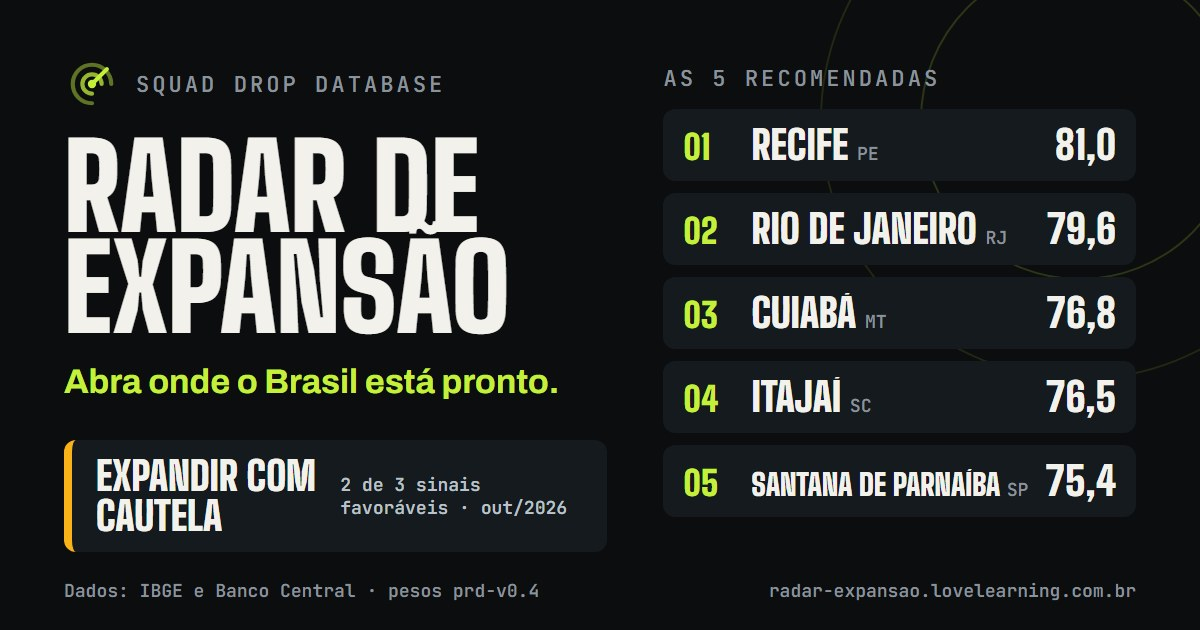
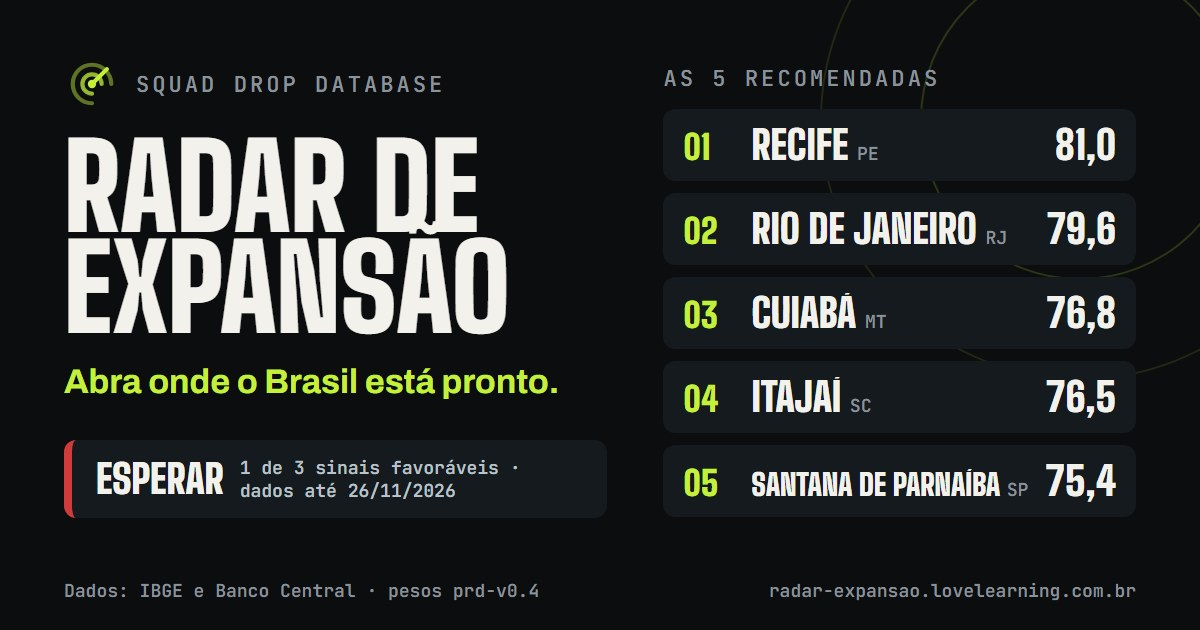
feat(site): semáforo de hoje com a data de cada sinal
Lê momento_atual: "Esperar", dólar pela média de 30 dias até 26/11 com o
último fechamento e o alerta de alta, Selic em 26/11 e IPCA até out/26.
Sparkline do câmbio e da Selic até novembro (parcial), rótulos do dólar,
letreiro e destaque do topo com as datas; prévia do link refeita. Datas
sem hora não passam mais por fuso; plural de "desfavoráveis" corrigido.

Changed region(s): [[0.0308, 0.6937, 0.4317, 0.8746], [0.4008, 0.7841, 0.4933, 0.8143]]

diff --git a/site/js/macro.js b/site/js/macro.js
@@ -1,9 +1,11 @@
-// Quando: recomendação do mês, os três sinais como cards de dado, a recomendação mês a mês e as três séries.
+// Quando: o semáforo de hoje (gold.momento_atual: câmbio e juros pela janela móvel até o último fechamento,
+// inflação pelo último IPCA), os três sinais como cards de dado com a data de cada um,
+// a recomendação mês a mês e as três séries.
 // Cada série tem o próprio gráfico (escalas diferentes não dividem eixo); a mira é sincronizada
 // e o tooltip é o componente único do site (dica.js).
 
 import { ROTULO_SINAL, STATUS_RECOMENDACAO } from "./indicadores.js";
-import { decimal, mesCurto, mesPorExtenso, paraData, porcento, reaisCentavos } from "./formato.js";
+import { dataCurta, decimal, mesCurto, mesPorExtenso, paraData, porcento, reaisCentavos } from "./formato.js";
 import { movimentoLigado } from "./movimento.js";
 import { conteudoDica, esconderDica, mostrarDica } from "./dica.js";
 
@@ -17,25 +19,46 @@ function variacao(v, formatar) {
   return `${seta} ${formatar(Math.abs(v))}`;
 }
 
-/** Os três sinais do semáforo e como mostrar cada um (valor, variação, série). */
+/** "2026-11-26" -> "26/11". */
+const diaMesIso = (iso) => (iso ? `${iso.slice(8, 10)}/${iso.slice(5, 7)}` : "—");
+
+/** Os três sinais do semáforo e como mostrar cada um: no mês (contexto_macro) e hoje (momento_atual). */
 const SINAIS = [
   {
     chave: "sinal_juros", nome: "Juros", indicador: "Meta da Selic", coluna: "selic_meta",
     valor: (l) => `${decimal(l.selic_meta, 2)}% a.a.`,
     variacao: (l) => variacao(l.selic_var_12m_pp, (v) => `${decimal(v, 2)} p.p.`),
     periodo: "em 12 meses",
+    hoje: {
+      indicador: (a) => `Meta da Selic · em ${diaMesIso(a.ref_juros)}`,
+      valor: (a) => `${decimal(a.selic_meta, 2)}% a.a.`,
+      variacao: (a) => variacao(a.selic_var_12m_pp, (v) => `${decimal(v, 2)} p.p.`),
+    },
   },
   {
     chave: "sinal_inflacao", nome: "Inflação", indicador: "IPCA acumulado em 12 meses", coluna: "ipca_12m",
     valor: (l) => porcento(l.ipca_12m, 2),
     variacao: (l, antes) => variacao(antes ? l.ipca_12m - antes.ipca_12m : null, (v) => `${decimal(v, 2)} p.p.`),
     periodo: "vs. 3 meses antes", referencia: 4.5,
+    hoje: {
+      indicador: (a) => `IPCA em 12 meses · até ${mesCurto(paraData(a.ref_inflacao))}`,
+      valor: (a) => porcento(a.ipca_12m, 2),
+      variacao: (a) => variacao(a.ipca_12m - a.ipca_12m_meses_antes, (v) => `${decimal(v, 2)} p.p.`),
+    },
   },
   {
     chave: "sinal_cambio", nome: "Câmbio", indicador: "Dólar, média do mês", coluna: "dolar_medio",
     valor: (l) => reaisCentavos(l.dolar_medio, 2),
     variacao: (l) => variacao(l.dolar_var_12m_pct, (v) => `${decimal(v, 1)}%`),
     periodo: "em 12 meses",
+    hoje: {
+      indicador: (a) => `Dólar, média de ${a.janela_dias} dias · até ${diaMesIso(a.ref_cambio)}`,
+      valor: (a) => reaisCentavos(a.dolar_media_janela, 2),
+      variacao: (a) => variacao(a.dolar_var_12m_pct, (v) => `${decimal(v, 1)}%`),
+      extra: (a) => `último fechamento ${diaMesIso(a.ref_cambio)}: ${reaisCentavos(a.dolar_ultimo, 2)} · ` +
+        `${variacao(a.dolar_var_janela_pct, (v) => `${decimal(v, 1)}%`)} sobre os ${a.janela_dias} dias anteriores` +
+        (a.alerta_cambio_curto_prazo ? " (alerta de alta)" : ""),
+    },
   },
 ];
 
@@ -45,21 +68,24 @@ export function criarMacro({ estado }) {
   const macro = estado.macro.map((l) => ({ ...l, data: paraData(l.mes) }));
   const indiceMacro = new Map(macro.map((l, i) => [l.mes, i]));
   const momentoPorMes = new Map(momento.map((l) => [l.mes, l]));
-  const atual = momento.at(-1);
+  const agora = estado.agora ? { ...estado.agora, data: paraData(estado.agora.mes) } : null;
+  const atual = agora ?? momento.at(-1);                          // o semáforo exibido
   const linhaAtual = atual ? macro[indiceMacro.get(atual.mes)] : null;
   const tresAntes = (l) => macro[(indiceMacro.get(l.mes) ?? 0) - 3] ?? null;
 
-  // mês corrente (parcial): a média é só até o último dia com dado; o semáforo usa o último mês fechado
-  const fechamentos = estado.meta.ultimos_fechamentos ?? {};
-  const diaMes = (iso) => `${iso.slice(8, 10)}/${iso.slice(5, 7)}`;
-  const ultimoDia = fechamentos.dolar_venda?.data ?? fechamentos.selic_meta?.data ?? null;
+  // mês corrente (parcial): médias só até o último fechamento; o semáforo de hoje usa a janela móvel
+  const parcial = macro.find((l) => l.mes_parcial) ?? null;
+  const ultimoDia = agora?.ref_cambio ?? parcial?.dolar_ultimo_data ?? null;
   const textoFechamento = {
-    selic_meta: fechamentos.selic_meta ? `último valor ${diaMes(fechamentos.selic_meta.data)}: ${decimal(fechamentos.selic_meta.valor, 2)}% a.a.` : "",
-    dolar_medio: fechamentos.dolar_venda ? `último fechamento ${diaMes(fechamentos.dolar_venda.data)}: ${reaisCentavos(fechamentos.dolar_venda.valor, 2)}` : "",
+    selic_meta: parcial?.selic_ultima_data ? `meta em ${diaMesIso(parcial.selic_ultima_data)}: ${decimal(parcial.selic_meta, 2)}% a.a.` : "",
+    dolar_medio: parcial?.dolar_ultimo ? `último fechamento ${diaMesIso(parcial.dolar_ultimo_data)}: ${reaisCentavos(parcial.dolar_ultimo, 2)}` : "",
   };
-  const mesAno = (d) => `${mesCurto(d).slice(0, 3)}/${d.getFullYear()}`;          // "out/2026"
-  const referenciaSemaforo = atual ? `semáforo: referência ${mesAno(atual.data)}` : "";
-  const rotuloParcial = (l) => `${mesPorExtenso(l.data)} (parcial${ultimoDia ? `, até ${diaMes(ultimoDia)}` : ""})`;
+  const mesAno = (d) => `${mesCurto(d).slice(0, 3)}/${d.getFullYear()}`;          // "nov/2026"
+  const janelaHoje = agora ? `semáforo: média de ${agora.janela_dias} dias até ${diaMesIso(agora.ref_cambio)}: ${reaisCentavos(agora.dolar_media_janela, 2)}` : "";
+  const rotuloParcial = (l) => `${mesPorExtenso(l.data)} (parcial${ultimoDia ? `, até ${diaMesIso(ultimoDia)}` : ""})`;
+  const datasHoje = agora
+    ? `dólar e Selic até ${diaMesIso(agora.ref_cambio)}, IPCA até ${mesCurto(paraData(agora.ref_inflacao))}`
+    : atual ? `referência ${mesCurto(atual.data)}` : "";
 
   /** Linhas do tooltip de um mês: Juros · Inflação · Câmbio → valor, variação, estado. */
   function conteudoDoMes(linha) {
@@ -71,15 +97,15 @@ export function criarMacro({ estado }) {
         estado: est, estadoTexto: est ? ROTULO_SINAL[est] : "",
       };
     });
-    const parcial = linha.mes_parcial
-      ? `Média do mês até ${ultimoDia ? diaMes(ultimoDia) : "hoje"}. ${[textoFechamento.dolar_medio, textoFechamento.selic_meta].filter(Boolean).join(" · ")}. ` +
-        `O semáforo usa o último mês fechado (${atual ? mesAno(atual.data) : "—"}).`
+    const nota = linha.mes_parcial
+      ? `Média do mês até ${ultimoDia ? diaMesIso(ultimoDia) : "hoje"}. ${[textoFechamento.dolar_medio, textoFechamento.selic_meta].filter(Boolean).join(" · ")}. ` +
+        (agora ? `Semáforo de hoje: câmbio pela média de ${agora.janela_dias} dias até ${diaMesIso(agora.ref_cambio)}, juros pela meta de ${diaMesIso(agora.ref_juros)} e inflação pelo IPCA de ${mesCurto(paraData(agora.ref_inflacao))}.` : "")
       : "Variação: juros e câmbio em 12 meses; inflação contra 3 meses antes.";
     return conteudoDica({
       titulo: linha.mes_parcial ? rotuloParcial(linha) : mesPorExtenso(linha.data),
       chip: m ? { texto: m.recomendacao, estado: STATUS_RECOMENDACAO[m.recomendacao] } : null,
       linhas,
-      nota: parcial,
+      nota,
     });
   }
 
@@ -89,11 +115,11 @@ export function criarMacro({ estado }) {
     const estados = SINAIS.map((s) => atual[s.chave]);
     const conta = (e) => estados.filter((x) => x === e).length;
     const partes = [`${conta("verde")} de ${SINAIS.length} sinais favoráveis`];
-    if (conta("vermelho")) partes.push(`${conta("vermelho")} desfavorável${conta("vermelho") > 1 ? "is" : ""}`);
-    partes.push(`referência ${mesCurto(atual.data)}`);
+    if (conta("vermelho")) partes.push(`${conta("vermelho")} ${conta("vermelho") > 1 ? "desfavoráveis" : "desfavorável"}`);
+    if (datasHoje) partes.push(datasHoje);
 
     document.querySelector(".semaforo__principal").style.setProperty("--status", COR_STATUS[status]);
-    document.getElementById("semaforo-mes").textContent = "Momento econômico";
+    document.getElementById("semaforo-mes").textContent = agora ? `Momento econômico · ${dataCurta(agora.ref_cambio)}` : "Momento econômico";
     document.getElementById("semaforo-recomendacao").textContent = atual.recomendacao;
     document.getElementById("semaforo-contexto").textContent = partes.join(" · ");
 
@@ -101,6 +127,7 @@ export function criarMacro({ estado }) {
     const lista = document.getElementById("semaforo-sinais");
     lista.replaceChildren();
     const fim = indiceMacro.get(atual.mes);
+    const linhaIpca = [...macro].reverse().find((l) => l.ipca_12m !== null);   // o IPCA sai com ~1 mês de atraso
     for (const s of SINAIS) {
       const est = atual[s.chave];
       const li = document.createElement("li");
@@ -113,16 +140,19 @@ export function criarMacro({ estado }) {
         <p class="sinal__variacao"></p>`;
       li.querySelector(".sinal__rotulo").textContent = s.nome;
       li.querySelector(".sinal__estado span").textContent = ROTULO_SINAL[est];
-      li.querySelector(".sinal__indicador").textContent = `${s.indicador} · ${mesCurto(atual.data)}`;
-      li.querySelector(".sinal__valor").textContent = s.valor(linhaAtual);
-      const v = s.variacao(linhaAtual, tresAntes(linhaAtual));
+      // hoje (momento_atual) com a data de cada sinal; sem ele, a linha mensal do mês de referência
+      const base = s.coluna === "ipca_12m" ? linhaIpca : linhaAtual;
+      li.querySelector(".sinal__indicador").textContent = agora ? s.hoje.indicador(agora) : `${s.indicador} · ${mesCurto(atual.data)}`;
+      li.querySelector(".sinal__valor").textContent = agora ? s.hoje.valor(agora) : s.valor(base);
+      const v = agora ? s.hoje.variacao(agora) : s.variacao(base, tresAntes(base));
       li.querySelector(".sinal__variacao").textContent = v ? `${v} ${s.periodo}` : "";
-      if (s.coluna === "dolar_medio" && textoFechamento.dolar_medio) {
+      if (agora && s.hoje.extra) {
         const extra = document.createElement("p");
         extra.className = "sinal__fechamento";
-        extra.textContent = textoFechamento.dolar_medio;
+        extra.textContent = s.hoje.extra(agora);
         li.querySelector(".sinal__variacao").after(extra);
       }
+      // a série mensal vai até o último mês com dado (o câmbio e a Selic incluem o mês corrente, parcial)
       li.append(sparkline(macro.slice(Math.max(0, fim - MESES_SPARKLINE + 1), fim + 1), s));
       lista.append(li);
     }
@@ -146,7 +176,7 @@ export function criarMacro({ estado }) {
     svg.append("circle").attr("class", "sparkline__ponto").attr("r", 3).attr("cx", x(pontos.length - 1)).attr("cy", y(ultimo[s.coluna]));
     const rotulo = document.createElement("p");
     rotulo.className = "sparkline__eixo";
-    rotulo.textContent = `${mesCurto(pontos[0].data)} → ${mesCurto(ultimo.data)}`;
+    rotulo.textContent = `${mesCurto(pontos[0].data)} → ${mesCurto(ultimo.data)}${ultimo.mes_parcial ? " (parcial)" : ""}`;
     const caixa = document.createElement("div");
     caixa.className = "sinal__grafico";
     caixa.append(svg.node(), rotulo);
@@ -223,8 +253,8 @@ export function criarMacro({ estado }) {
     cartao.querySelector(".grafico__atual").textContent = serie.formato(ultimo[serie.coluna]);
     const v = serie.sinal.variacao(ultimo, tresAntes(ultimo));
     cartao.querySelector(".grafico__var").textContent = ultimo.mes_parcial
-      ? [`média de ${mesAno(ultimo.data)} (parcial${ultimoDia ? `, até ${diaMes(ultimoDia)}` : ""})`,
-        textoFechamento[serie.coluna], referenciaSemaforo].filter(Boolean).join(" · ")
+      ? [`${serie.coluna === "dolar_medio" ? "média de " : ""}${mesAno(ultimo.data)} (parcial${ultimoDia ? `, até ${diaMesIso(ultimoDia)}` : ""})`,
+        textoFechamento[serie.coluna], serie.coluna === "dolar_medio" ? janelaHoje : ""].filter(Boolean).join(" · ")
       : `${mesCurto(ultimo.data)}${v ? ` · ${v} ${serie.sinal.periodo}` : ""}`;
     area.appendChild(cartao);
 
@@ -297,5 +327,5 @@ export function criarMacro({ estado }) {
     });
   }
 
-  return { atual, linhaAtual };
+  return { atual, linhaAtual, agora };
 }

diff --git a/site/js/main.js b/site/js/main.js
@@ -43,7 +43,9 @@ function preencherKpis(estado, momentoAtual) {
   }
   if (momentoAtual) {
     kpi("momento").innerHTML = `<i class="ponto-estado ponto-estado--${STATUS_RECOMENDACAO[momentoAtual.recomendacao]}"></i><span>${momentoAtual.recomendacao}</span>`;
-    kpi("momento-nota").textContent = `${mesPorExtenso(paraData(momentoAtual.mes))}${previa}`;
+    kpi("momento-nota").textContent = momentoAtual.ref_cambio
+      ? `dados até ${dataCurta(momentoAtual.ref_cambio)}${previa}`
+      : `${mesPorExtenso(paraData(momentoAtual.mes))}${previa}`;
   }
   kpi("data").textContent = dataCurta(meta.gerado_em);
   const p = meta.periodos ?? {};
@@ -53,13 +55,15 @@ function preencherKpis(estado, momentoAtual) {
 }
 
 // ---------------------------------------------------------------- letreiro com números reais
-function montarLetreiro(estado, { atual, linhaAtual }) {
+function montarLetreiro(estado, { atual, linhaAtual, agora }) {
   const ultimoDolar = [...estado.macro].reverse().find((l) => l.dolar_medio !== null);
+  const ultimoIpca = [...estado.macro].reverse().find((l) => l.ipca_12m !== null);
   const primeiro = estado.ranking[0];
+  const dia = (iso) => `${iso.slice(8, 10)}/${iso.slice(5, 7)}`;
   const itens = [
-    linhaAtual && ["Selic", `${decimal(linhaAtual.selic_meta, 2)}% a.a.`],
-    linhaAtual && ["IPCA 12 meses", porcento(linhaAtual.ipca_12m, 2)],
-    ultimoDolar && ["Dólar", reaisCentavos(ultimoDolar.dolar_medio, 2)],
+    agora ? ["Selic", `${decimal(agora.selic_meta, 2)}% a.a.`] : linhaAtual && ["Selic", `${decimal(linhaAtual.selic_meta, 2)}% a.a.`],
+    agora ? ["IPCA 12 meses", porcento(agora.ipca_12m, 2)] : ultimoIpca && ["IPCA 12 meses", porcento(ultimoIpca.ipca_12m, 2)],
+    agora ? [`Dólar ${dia(agora.ref_cambio)}`, reaisCentavos(agora.dolar_ultimo, 2)] : ultimoDolar && ["Dólar", reaisCentavos(ultimoDolar.dolar_medio, 2)],
     ["Cidades no radar", inteiro(estado.ranking.length)],
     primeiro && ["1ª do ranking", `${primeiro.municipio_nome} ${decimal(primeiro.nota_final, 1)}`],
     atual && ["Momento", atual.recomendacao],

diff --git a/site/js/dados.js b/site/js/dados.js
@@ -19,7 +19,7 @@ export function paraObjetos(tabela) {
 
 /** Tabelas da gold + território do IBGE. */
 export async function carregarDados() {
-  const [meta, indicadores, ranking, criteriosBrutos, parametros, macro, momento, territorio] = await Promise.all([
+  const [meta, indicadores, ranking, criteriosBrutos, parametros, macro, momento, agoraLista, territorio] = await Promise.all([
     buscarJson("meta.json"),
     buscarJson("indicadores_municipio.json").then(paraObjetos),
     buscarJson("ranking_expansao.json").then(paraObjetos),
@@ -27,6 +27,7 @@ export async function carregarDados() {
     buscarJson("parametro_ranking.json").then(paraObjetos).catch(() => []),   // opcional
     buscarJson("contexto_macro.json").then(paraObjetos),
     buscarJson("momento_expansao.json").then(paraObjetos),
+    buscarJson("momento_atual.json").then(paraObjetos).catch(() => []),   // semáforo de hoje (opcional)
     buscarJson("territorio.json").then(paraObjetos),
   ]);
   const criterios = [...criteriosBrutos].sort((a, b) => (a.ordem ?? 0) - (b.ordem ?? 0));
@@ -60,7 +61,8 @@ export async function carregarDados() {
   const ufs = [...new Set(indicadores.map((m) => m.uf_sigla))].sort();
   // cidades do universo, já na ordem do ranking
   const universo = ranking.map((r) => porId.get(r.municipio_id)).filter(Boolean);
-  return { meta, indicadores, ranking, criterios, parametros, recomendadas, macro, momento, porId, ufs, universo };
+  const agora = agoraLista[0] ?? null;
+  return { meta, indicadores, ranking, criterios, parametros, recomendadas, macro, momento, agora, porId, ufs, universo };
 }
 
 /** Malhas do IBGE (TopoJSON): carregadas à parte, sem travar o resto da página. */

diff --git a/site/js/formato.js b/site/js/formato.js
@@ -47,6 +47,8 @@ export function paraData(texto) {
 export const mesPorExtenso = (d) => `${MESES[d.getMonth()]} de ${d.getFullYear()}`;
 export const mesCurto = (d) => `${MESES[d.getMonth()].slice(0, 3)}/${String(d.getFullYear()).slice(2)}`;
 export const dataCurta = (iso) => {
+  // data sem hora ("2026-11-26") é dia do calendário: não passa por fuso (new Date leria meia-noite UTC = dia anterior aqui)
+  if (/^\d{4}-\d{2}-\d{2}$/.test(iso ?? "")) return `${iso.slice(8, 10)}/${iso.slice(5, 7)}/${iso.slice(0, 4)}`;
   const d = new Date(iso);
   return Number.isNaN(d.getTime()) ? TRACO : d.toLocaleDateString("pt-BR");
 };
